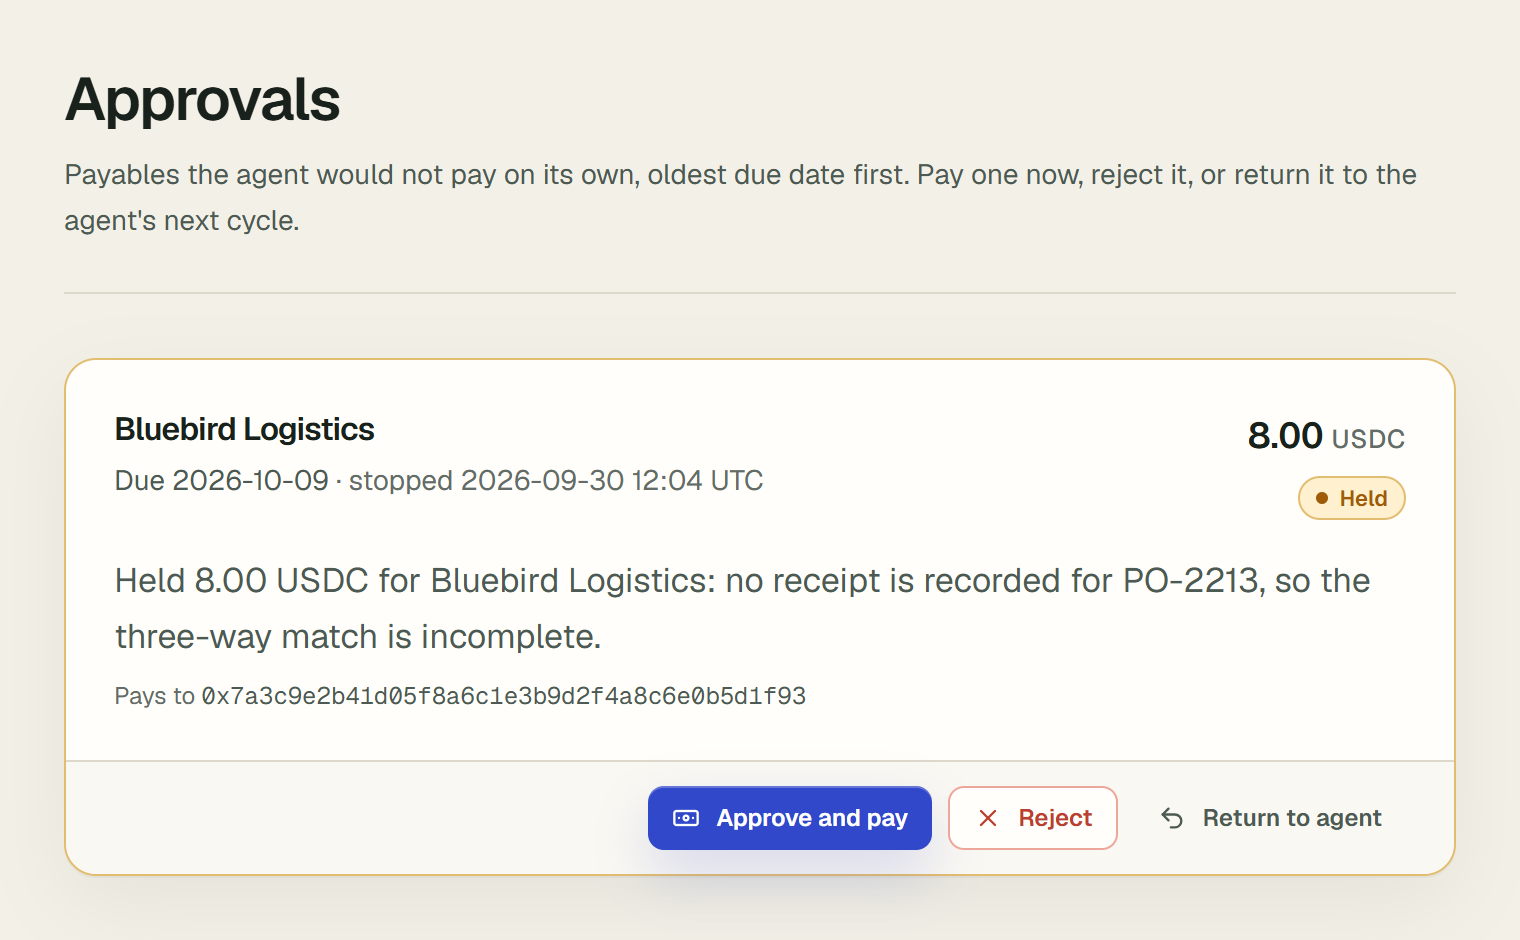
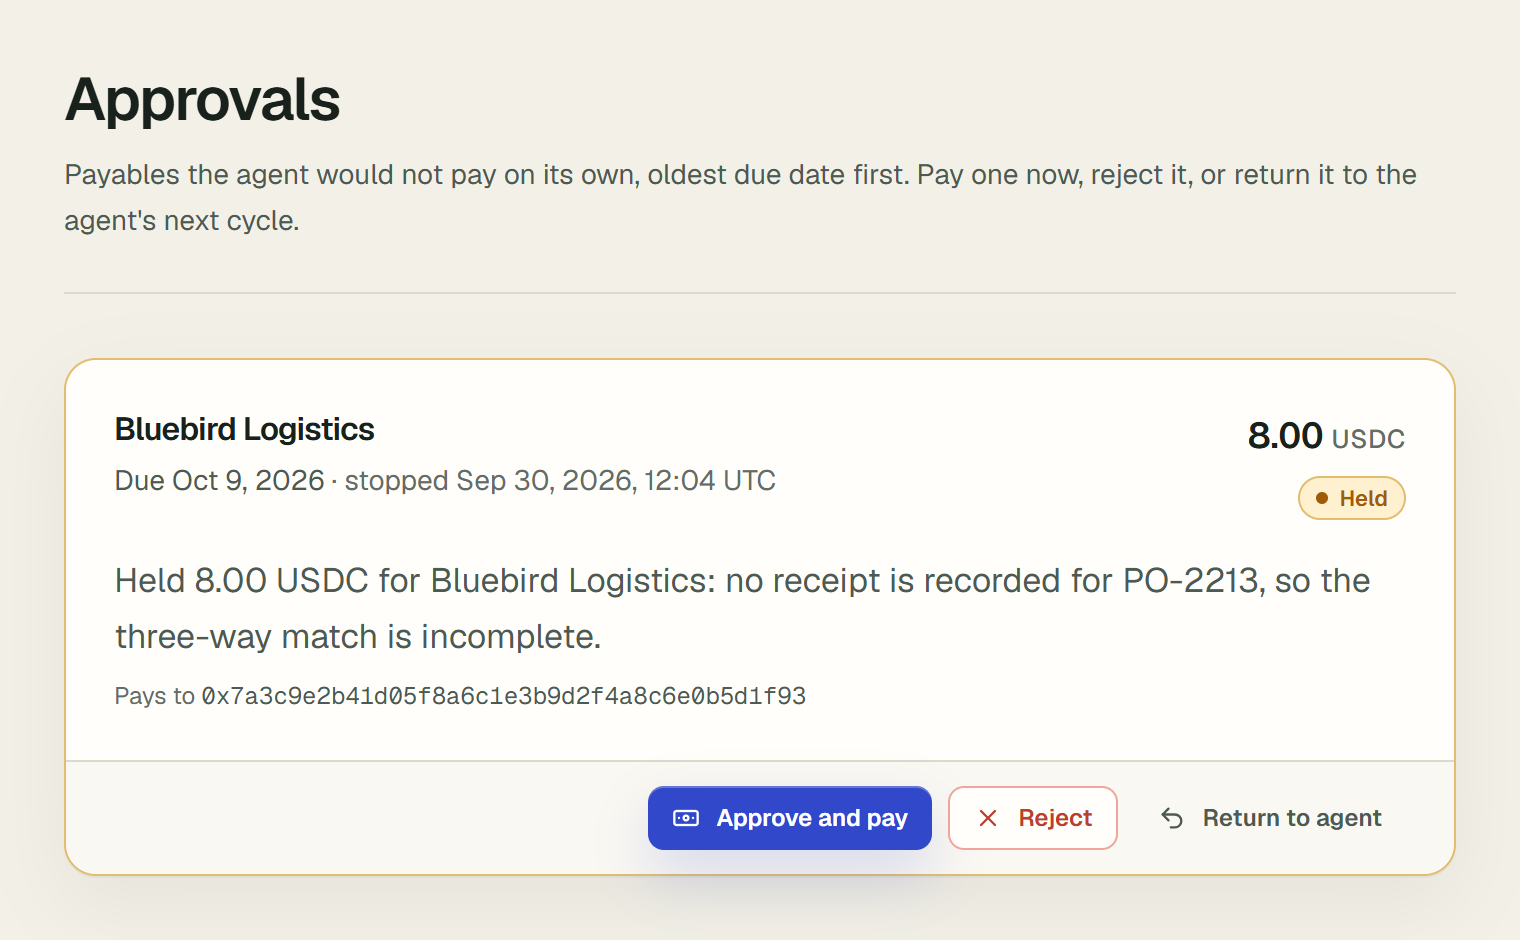
Write dates with the month named: "Sep 30, 2026, 05:07 UTC"
utcDay and utcMinute are built by hand, not with Intl, so the server render
and the browser agree whatever their locale data. The approval card, the
paused banner, Go live and the balance tile all use them.

Changed region(s): [[0.0928, 0.4936, 0.5257, 0.5245]]

diff --git a/tests/control-ui.test.tsx b/tests/control-ui.test.tsx
@@ -7,7 +7,7 @@ import ApprovalCard, { payConfirmTitle } from "@/components/ApprovalCard";
 import AgentPauseControl, { PAUSE_DIALOG_DESCRIPTION } from "@/components/AgentPauseControl";
 import { AgentPausedBanner, pausedBanner } from "@/components/AgentPausedBanner";
 import type { WaitingPayable } from "@/lib/agent/approvals";
-import { utcMinute } from "@/lib/copy";
+import { utcDay, utcMinute } from "@/lib/copy";
 
 /**
  * The approvals inbox, the pause control and the paused banner, as the markup
@@ -63,15 +63,24 @@ function card(overrides: Partial<WaitingPayable> = {}, props: Partial<{ canDecid
 
 describe("utcMinute", () => {
   it("reads an instant to the minute, in UTC, the same on server and browser", () => {
-    expect(utcMinute("2026-09-29T14:05:12.345+00:00")).toBe("2026-09-29 14:05 UTC");
-    expect(utcMinute("2026-09-29T23:30:00+02:00")).toBe("2026-09-29 21:30 UTC");
+    expect(utcMinute("2026-09-29T14:05:12.345+00:00")).toBe("Sep 29, 2026, 14:05 UTC");
+    expect(utcMinute("2026-09-29T23:30:00+02:00")).toBe("Sep 29, 2026, 21:30 UTC");
+    expect(utcMinute("2027-01-01T00:59:00+01:00")).toBe("Dec 31, 2026, 23:59 UTC");
+  });
+});
+
+describe("utcDay", () => {
+  it("reads an instant as its UTC day, with the month named", () => {
+    expect(utcDay("2026-09-30T12:00:00+00:00")).toBe("Sep 30, 2026");
+    expect(utcDay("2026-10-05")).toBe("Oct 5, 2026");
+    expect(utcDay("2026-12-31T23:30:00-02:00")).toBe("Jan 1, 2027");
   });
 });
 
 describe("ApprovalCard", () => {
   it("shows the due date as a date, not the stored timestamp", () => {
     const markup = card({ dueDate: "2026-09-30T12:00:00+00:00" });
-    expect(markup).toContain("Due 2026-09-30");
+    expect(markup).toContain("Due Sep 30, 2026");
     expect(markup).not.toContain("T12:00:00");
   });
 
@@ -92,10 +101,10 @@ describe("ApprovalCard", () => {
     const markup = card();
     expect(markup).toContain("Northwind Supply");
     expect(markup).toContain("1,250.00");
-    expect(markup).toContain("2026-10-03");
+    expect(markup).toContain("Due Oct 3, 2026");
     expect(markup).toContain("Held");
     expect(markup).toContain("Above the auto-pay limit for a new vendor.");
-    expect(markup).toContain("stopped 2026-09-29 14:05 UTC");
+    expect(markup).toContain("stopped Sep 29, 2026, 14:05 UTC");
   });
 
   it("offers the three decisions to someone who may decide", () => {
@@ -218,7 +227,7 @@ describe("AgentPausedBanner", () => {
 
   it("says since when, by whom and why", () => {
     const markup = html(<AgentPausedBanner pause={{ pausedAt: "2026-09-29T14:05:12Z", pausedBy: CREATOR, reason: "Suspicious vendor" }} members={members} />);
-    expect(markup).toContain("The agent is paused since 2026-09-29 14:05 UTC by ada@example.com: Suspicious vendor");
+    expect(markup).toContain("The agent is paused since Sep 29, 2026, 14:05 UTC by ada@example.com: Suspicious vendor");
   });
 
   it("loads nothing more when the agent is running", async () => {
@@ -250,7 +259,7 @@ describe("AgentPausedBanner", () => {
 
   it("names a pauser who has left as a member, and leaves out a missing reason", () => {
     const markup = html(<AgentPausedBanner pause={{ pausedAt: "2026-09-29T14:05:12Z", pausedBy: VIEWER, reason: null }} members={members} />);
-    expect(markup).toContain("The agent is paused since 2026-09-29 14:05 UTC by a member.");
+    expect(markup).toContain("The agent is paused since Sep 29, 2026, 14:05 UTC by a member.");
   });
 });
 

diff --git a/src/lib/copy.ts b/src/lib/copy.ts
@@ -8,14 +8,22 @@ export function plural(n: number, one: string, many: string): string {
   return n === 1 ? one : many;
 }
 
+const MONTHS = ["Jan", "Feb", "Mar", "Apr", "May", "Jun", "Jul", "Aug", "Sep", "Oct", "Nov", "Dec"];
+
 /**
- * An instant to the minute, in UTC: "2026-09-29 14:05 UTC". Built from the ISO
- * string rather than `Intl`, so a server render and the browser's hydration
+ * An instant's day in UTC, with the month named: "Sep 30, 2026". Built by hand
+ * rather than with `Intl`, so a server render and the browser's hydration
  * produce the same text whatever their locale data.
  */
+export function utcDay(iso: string): string {
+  const at = new Date(iso);
+  return `${MONTHS[at.getUTCMonth()]} ${at.getUTCDate()}, ${at.getUTCFullYear()}`;
+}
+
+/** An instant to the minute, in UTC: "Sep 29, 2026, 14:05 UTC". Built by hand for the same reason as `utcDay`. */
 export function utcMinute(iso: string): string {
-  const at = new Date(iso).toISOString();
-  return `${at.slice(0, 10)} ${at.slice(11, 16)} UTC`;
+  const at = new Date(iso);
+  return `${utcDay(iso)}, ${at.toISOString().slice(11, 16)} UTC`;
 }
 
 /**

diff --git a/src/components/ApprovalCard.tsx b/src/components/ApprovalCard.tsx
@@ -16,7 +16,7 @@ import { useActionForm, type ActionResult } from "@/components/ui/useActionForm"
 import { Money, fmt } from "@/components/vx/Primitives";
 import { withSuccessToast } from "@/components/withSuccessToast";
 import type { WaitingPayable } from "@/lib/agent/approvals";
-import { utcMinute } from "@/lib/copy";
+import { utcDay, utcMinute } from "@/lib/copy";
 
 const INITIAL: ActionResult = { ok: false, message: "" };
 const approve = withSuccessToast(approveInvoiceAction);
@@ -76,7 +76,7 @@ export default function ApprovalCard({
           <div className="min-w-0 space-y-1">
             <CardTitle className="truncate">{payable.counterpartyName}</CardTitle>
             <p className="text-sm text-ink-2">
-              Due {payable.dueDate.slice(0, 10)}
+              Due {utcDay(payable.dueDate)}
               {payable.decidedAt && <span className="text-ink-3"> · stopped {utcMinute(payable.decidedAt)}</span>}
             </p>
           </div>

diff --git a/tests/go-live-panel.test.tsx b/tests/go-live-panel.test.tsx
@@ -152,7 +152,7 @@ describe("GoLivePanel, for an owner", () => {
     const words = text(markup);
     expect(words).toContain(OPERATING);
     expect(words).toContain(RESERVE);
-    expect(words).toContain("Live since 2026-09-30 09:00 UTC");
+    expect(words).toContain("Live since Sep 30, 2026, 09:00 UTC");
     expect(words).toContain("Runs every 6 hours; pause the agent from the console to stop it.");
     expect(markup).toContain('href="/o/acme/console"');
     expect(words).not.toContain("Create treasury wallets");
@@ -208,7 +208,7 @@ describe("GoLivePanel, for anyone who is not an owner", () => {
     const words = text(panel("live", false));
     expect(words).toContain(OPERATING);
     expect(words).toContain(RESERVE);
-    expect(words).toContain("Live since 2026-09-30 09:00 UTC");
+    expect(words).toContain("Live since Sep 30, 2026, 09:00 UTC");
   });
 });
 

diff --git a/tests/live-balance-tile.test.tsx b/tests/live-balance-tile.test.tsx
@@ -166,7 +166,7 @@ describe("checkedLabel", () => {
   });
 
   it("falls back to the time of the read when there is no clock yet (the server render)", () => {
-    expect(checkedLabel(at, null)).toBe("Checked 2026-09-30 12:00 UTC");
+    expect(checkedLabel(at, null)).toBe("Checked Sep 30, 2026, 12:00 UTC");
   });
 });
 
